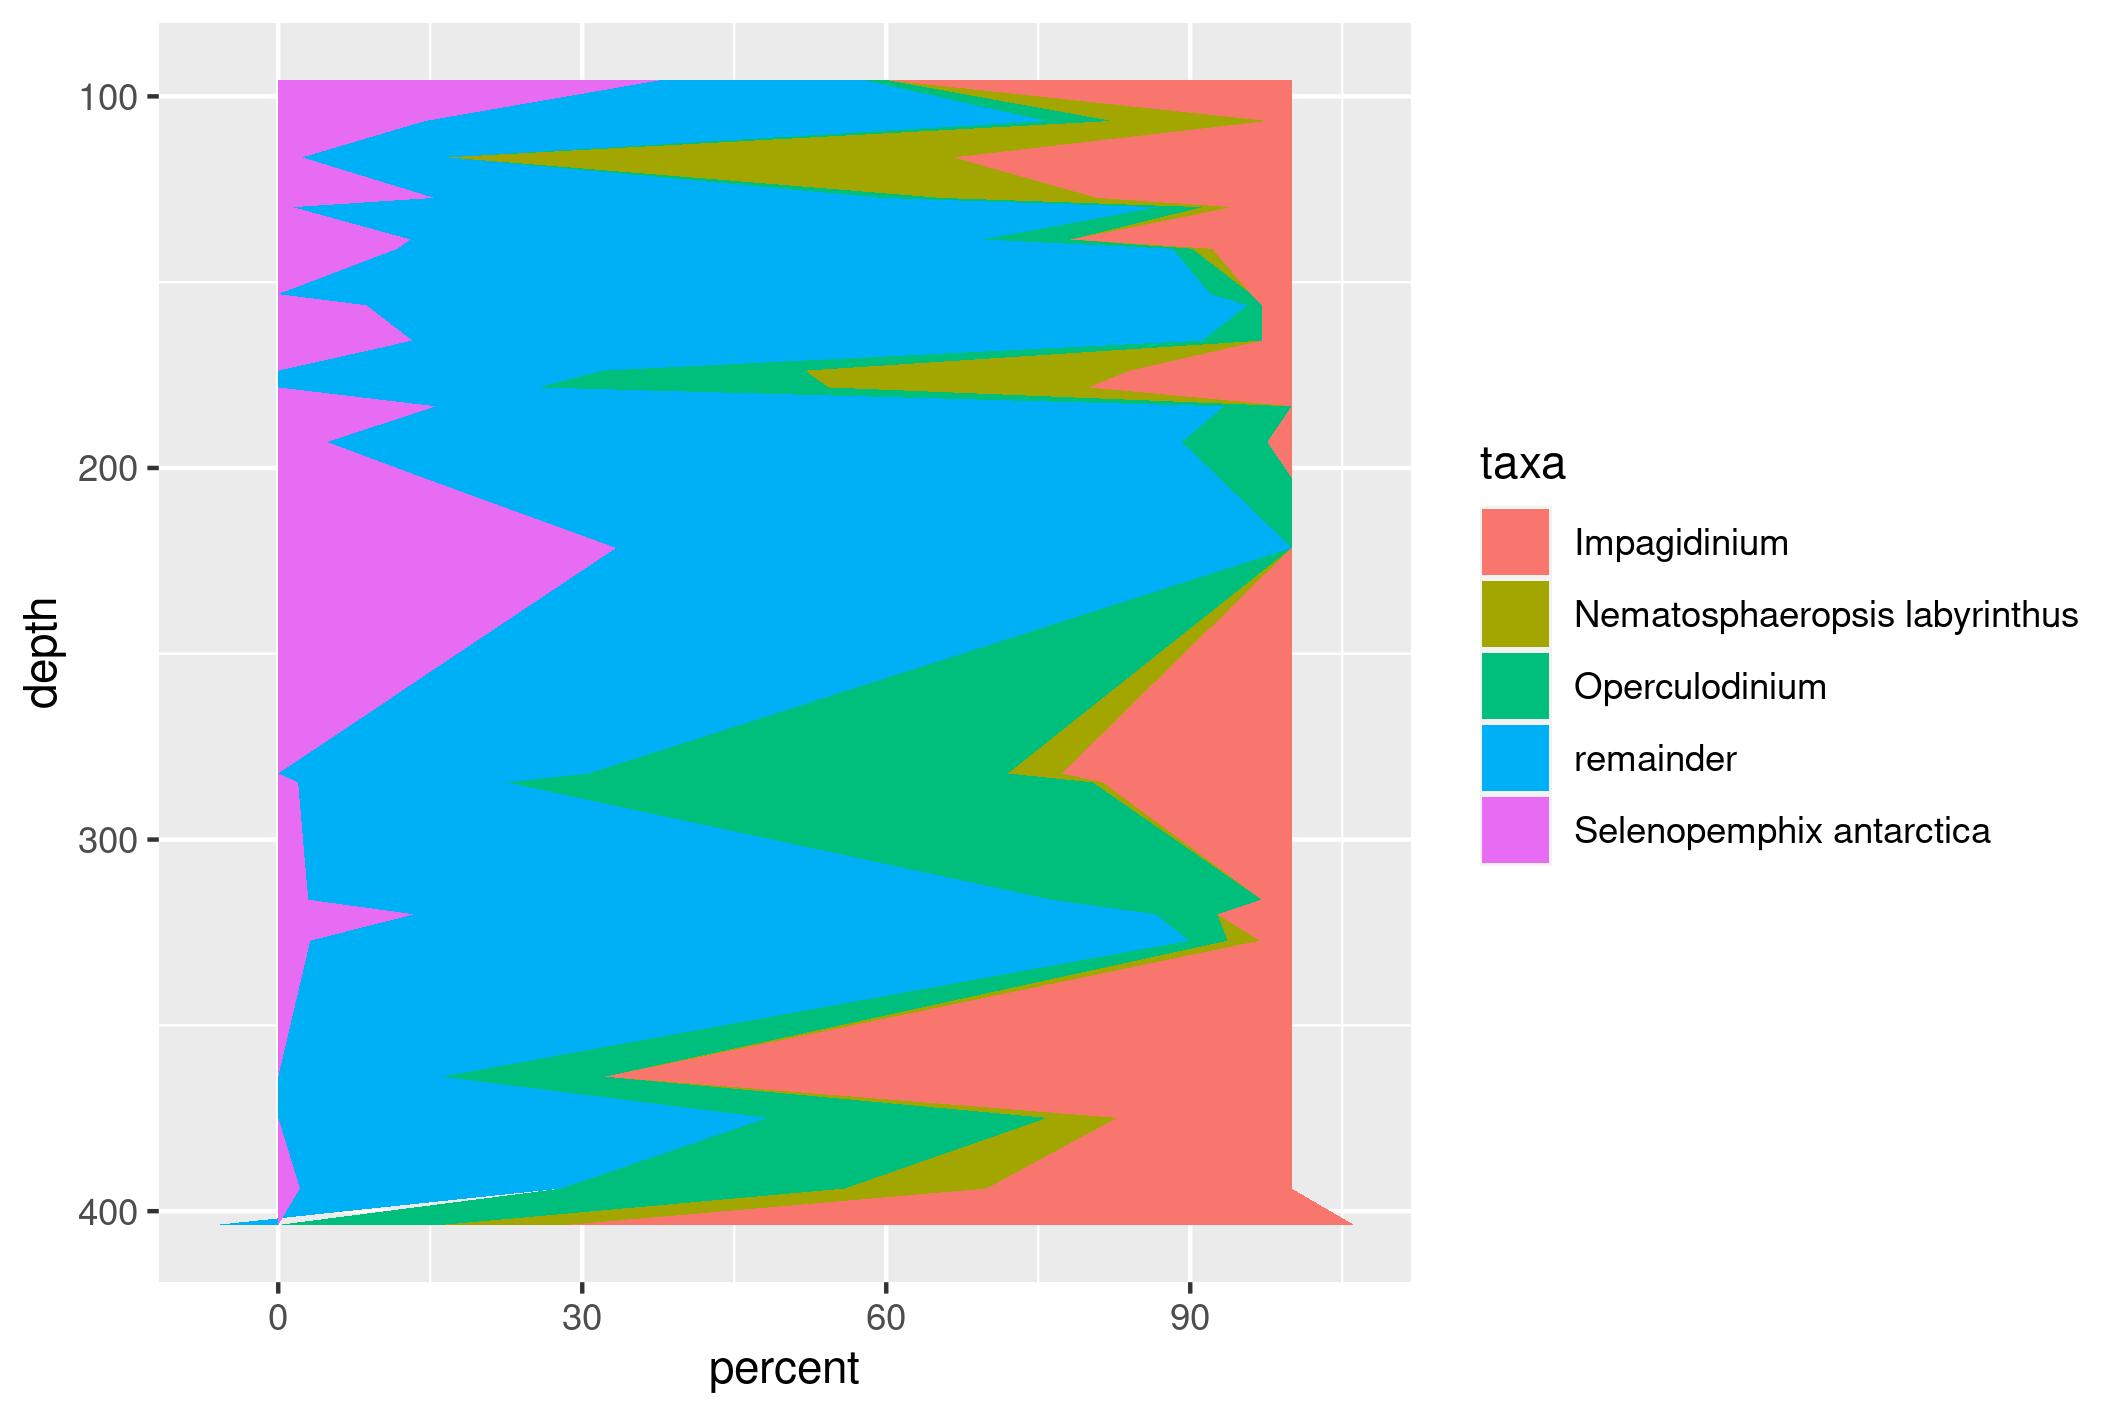
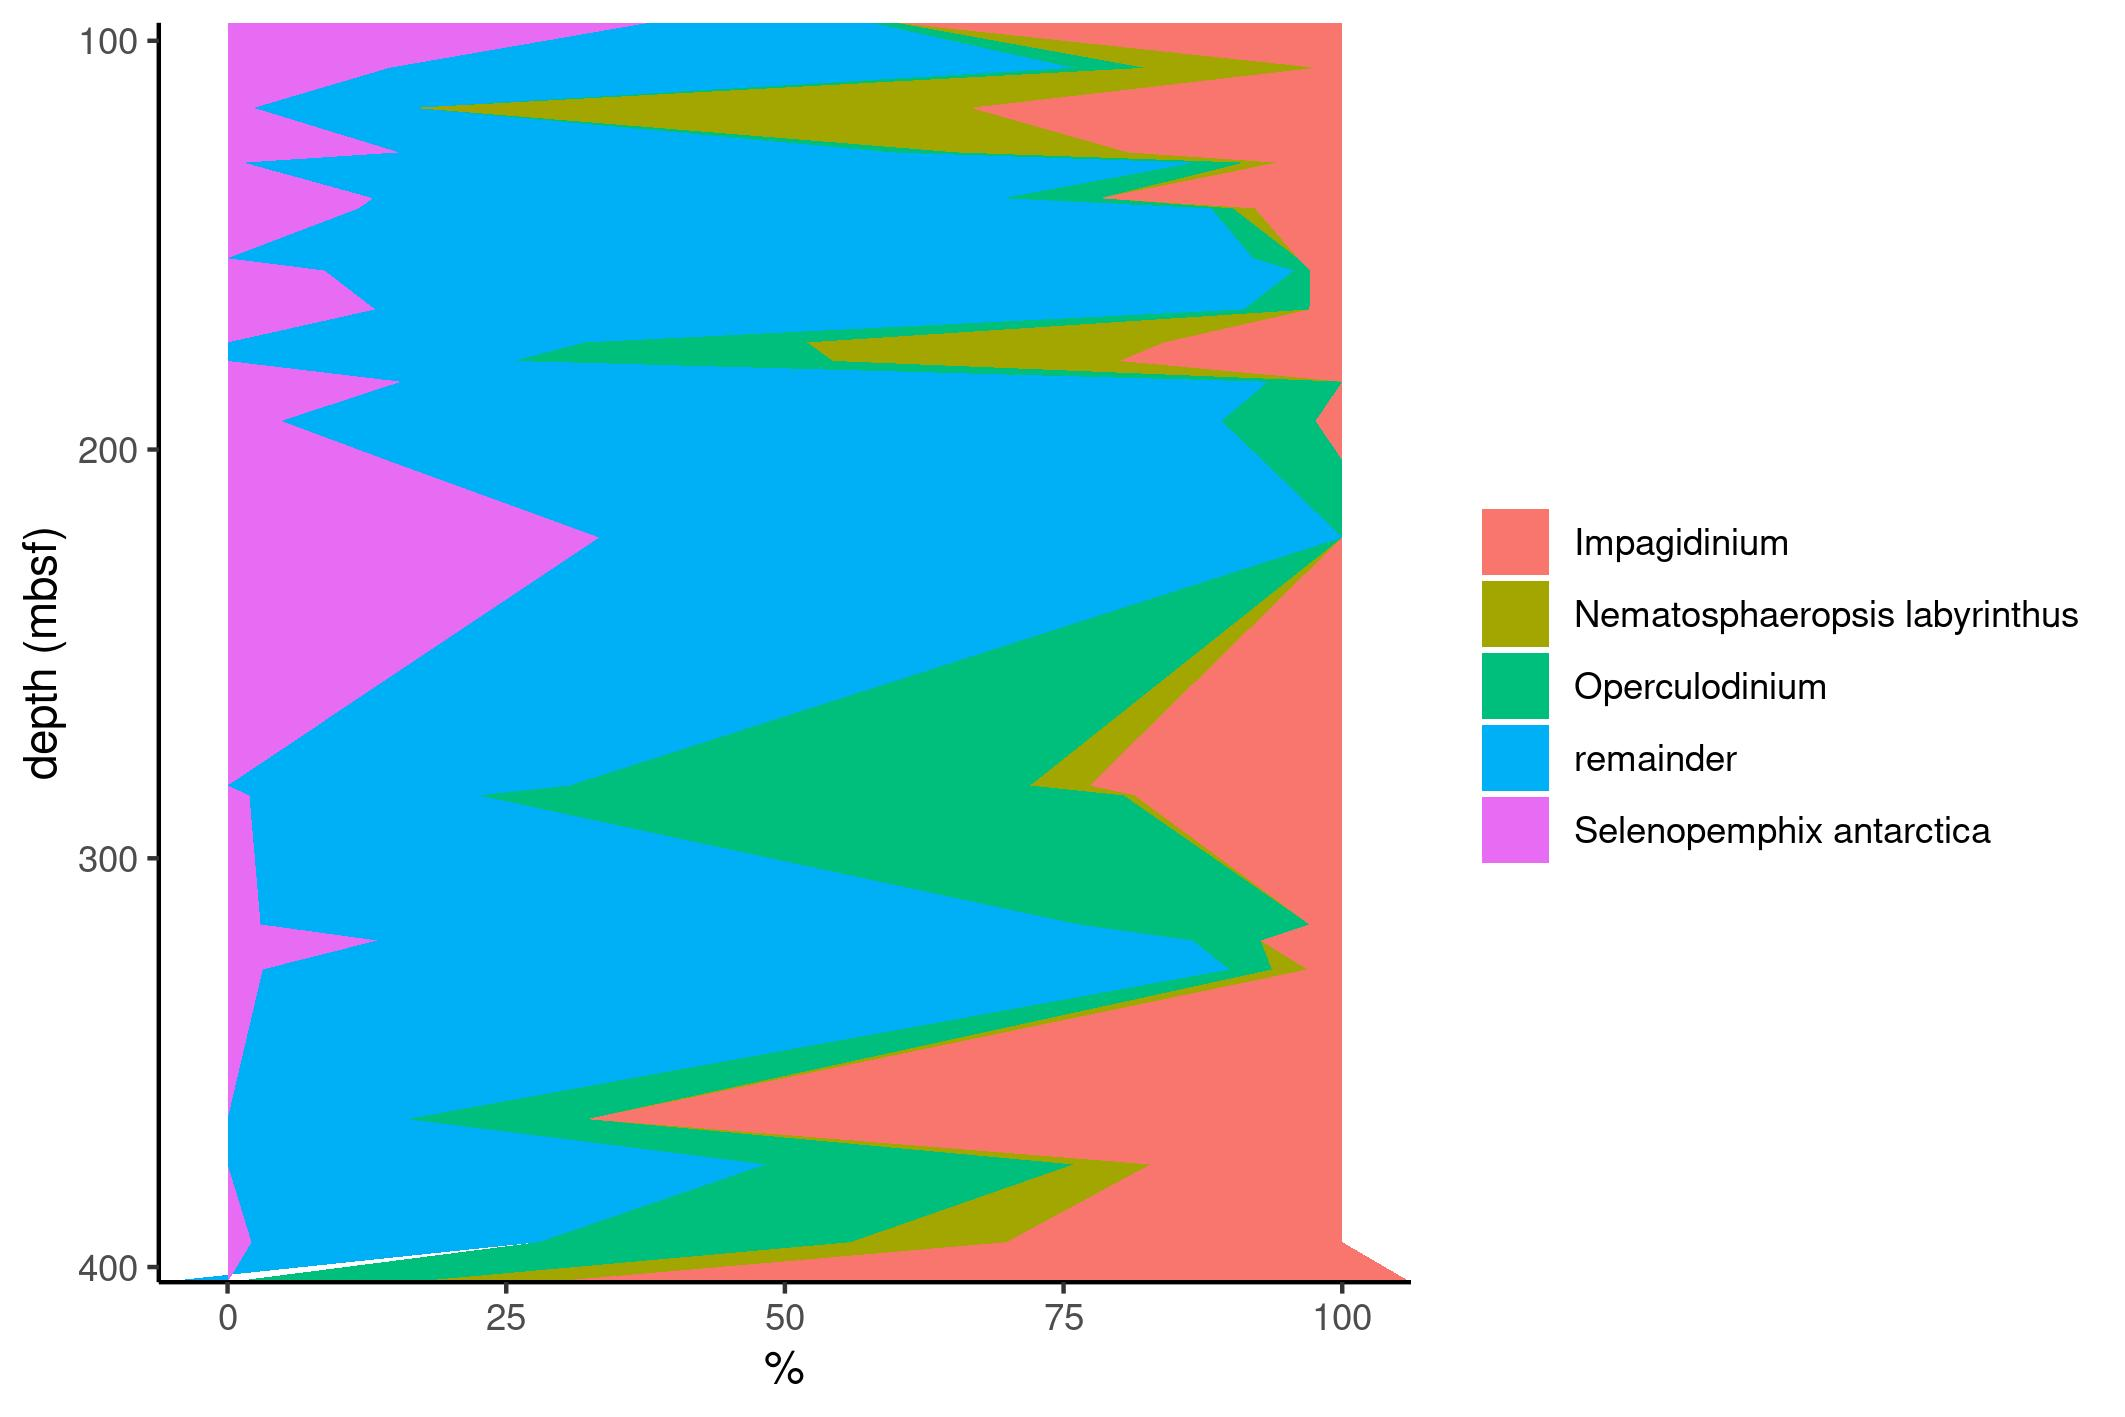
figure update

diff --git a/2021-03-24/README.md b/2021-03-24/README.md
@@ -76,7 +76,14 @@ orientation.
 ``` r
 p <- ggplot(tb_area, aes(x = percent , y = depth, fill = taxa)) +
   geom_area(position = "stack", orientation = "y") +
-  scale_y_reverse() 
+  scale_y_continuous(expand = c(0,0), trans = "reverse") +
+  scale_x_continuous(expand = c(0,0)) +
+  labs(
+    fill = "",
+    y = "depth (mbsf)",
+    x = "%"
+  ) +
+  theme_classic()
 ```
 
 <img src="sangiorgietal2018.jpg" width="2125" />
